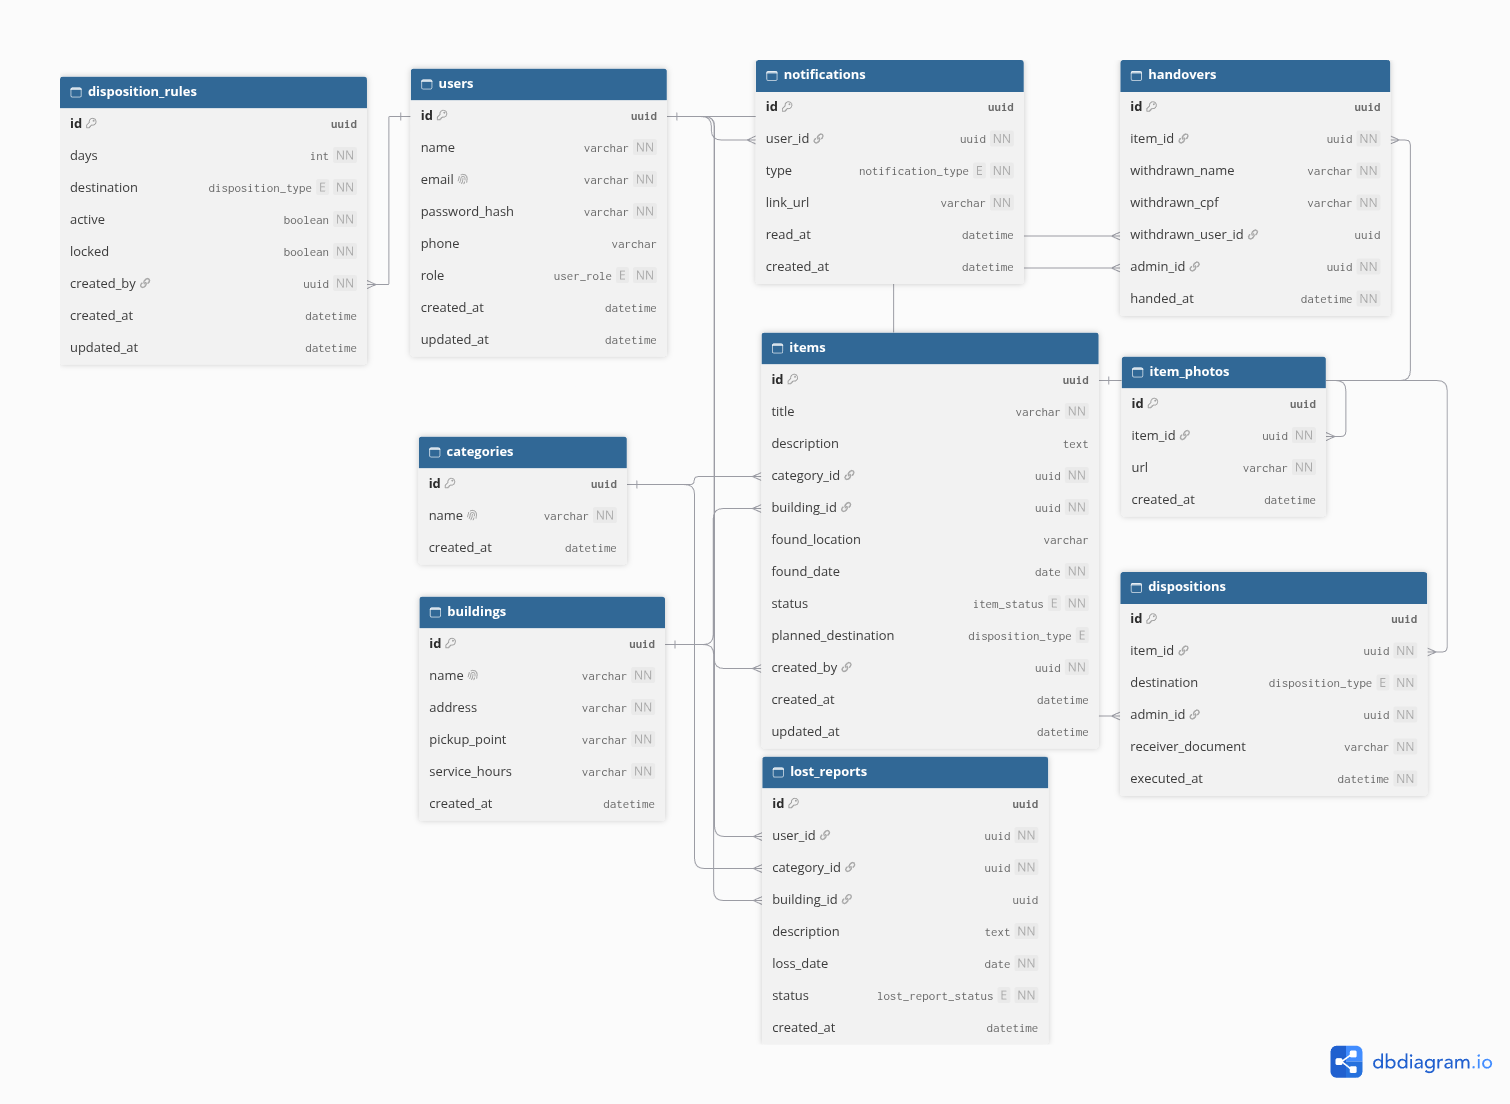
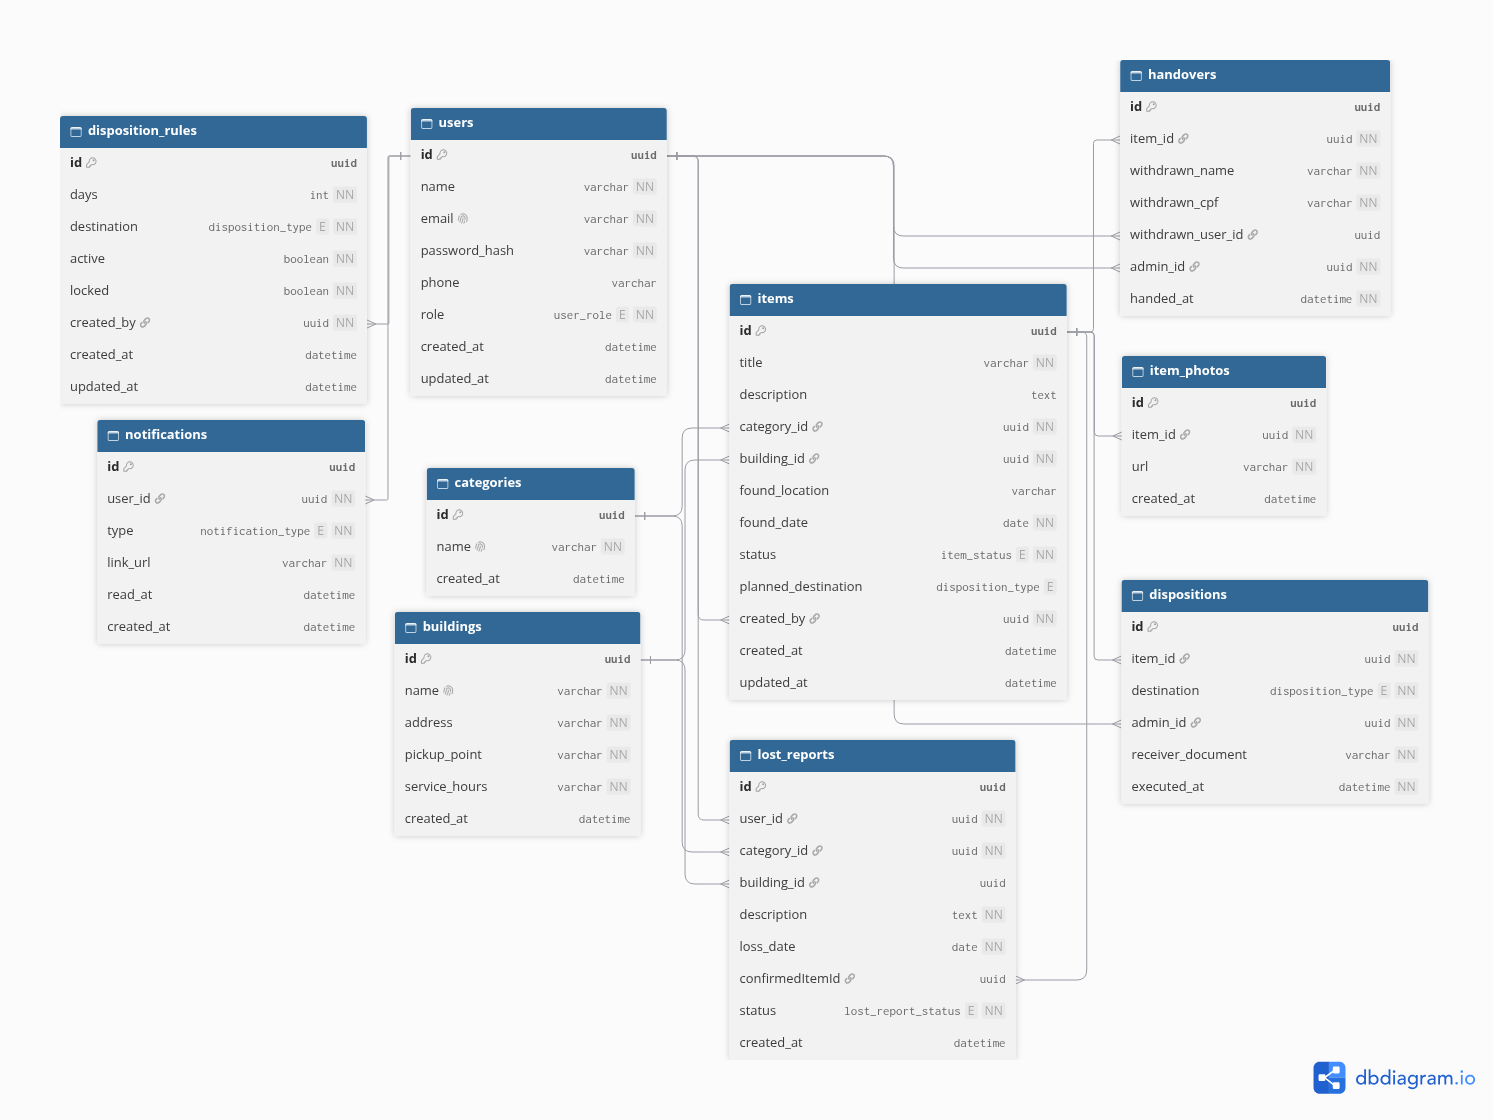
endpoint health e versionamento

diff --git a/backend/src/server.ts b/backend/src/server.ts
@@ -36,10 +36,26 @@ app.use(errorHandler);
 
 // Inicialização do servidor e conexão com o banco de dados
 AppDataSource.initialize()
-  .then(() => app.listen(port, () => {
-    console.log(`Servidor rodando em http://localhost:${port}`);
-    console.log(`Documentação Swagger em http://localhost:${port}/docs`);
-  }))
+  .then(() => {
+    const server = app.listen(port, () => {
+      console.log(`Servidor rodando em http://localhost:${port}`);
+      console.log(`Documentação Swagger em http://localhost:${port}/docs`);
+    });
+
+    const shutdown = async (signal: string) => {
+      console.log(`Recebido sinal ${signal}. Encerrando servidor graciosamente...`);
+      server.close(async () => {
+        if (AppDataSource.isInitialized) {
+          await AppDataSource.destroy();
+          console.log('Conexão com o banco de dados encerrada.');
+        }
+        process.exit(0);
+      });
+    };
+
+    process.on('SIGTERM', () => shutdown('SIGTERM'));
+    process.on('SIGINT', () => shutdown('SIGINT'));
+  })
   .catch((error: unknown) => {
     console.error('Não foi possível conectar ao SQLite:', error);
     process.exitCode = 1;

diff --git a/backend/src/tests/health.test.ts b/backend/src/tests/health.test.ts
@@ -1,0 +1,31 @@
+import assert from 'node:assert/strict';
+import fs from 'node:fs';
+import os from 'node:os';
+import path from 'node:path';
+import { after, before, test } from 'node:test';
+import { startTestApp, type TestApp } from './support/admin-auth-test-app.js';
+
+const tmpDir = fs.mkdtempSync(path.join(os.tmpdir(), 'achadex-health-test-'));
+const dbPath = path.join(tmpDir, 'test.sqlite');
+process.env.SQLITE_DB_PATH = dbPath;
+process.env.JWT_SECRET = 'segredo-de-teste-com-mais-de-32-bytes-para-hs256!';
+
+let app: TestApp;
+
+before(async () => {
+  app = await startTestApp();
+});
+
+after(async () => {
+  await app.close();
+  fs.rmSync(tmpDir, { recursive: true, force: true });
+});
+
+test('HE01 - GET /api/health retorna status healthy e database connected', async () => {
+  const res = await app.request('GET', '/api/health');
+  assert.equal(res.status, 200);
+  assert.equal(res.body.success, true);
+  assert.equal(res.body.data.status, 'healthy');
+  assert.equal(res.body.data.database, 'connected');
+  assert.ok(res.body.data.timestamp);
+});

diff --git a/backend/src/controllers/health.controller.ts b/backend/src/controllers/health.controller.ts
@@ -1,0 +1,24 @@
+import { Router, type Request, type Response } from 'express';
+import { AppDataSource } from '../data-source.js';
+
+export const healthRouter = Router();
+
+healthRouter.get(
+  '/',
+  /* #swagger.tags = ['Health'] */
+  /* #swagger.summary = 'Verificar saúde da aplicação e conexão com o banco de dados' */
+  /* #swagger.responses[200] = { description: 'Serviço saudável', schema: { $ref: '#/definitions/ApiResponse' } } */
+  /* #swagger.responses[503] = { description: 'Serviço degradado ou sem banco', schema: { $ref: '#/definitions/ApiResponse' } } */
+  async (_req: Request, res: Response) => {
+    const dbOk = AppDataSource.isInitialized;
+    const response = {
+      success: dbOk,
+      data: {
+        status: dbOk ? 'healthy' : 'unhealthy',
+        database: dbOk ? 'connected' : 'disconnected',
+        timestamp: new Date().toISOString(),
+      },
+    };
+    res.status(dbOk ? 200 : 503).json(response);
+  },
+);

diff --git a/backend/src/routes/index.ts b/backend/src/routes/index.ts
@@ -8,6 +8,7 @@ import { categoryRouter } from '../controllers/category.controller.js';
 import { dispositionRuleRouter } from '../controllers/disposition-rule.controller.js';
 import { dispositionRouter } from '../controllers/disposition.controller.js';
 import { handoverRouter } from '../controllers/handover.controller.js';
+import { healthRouter } from '../controllers/health.controller.js';
 import { jobRouter } from '../controllers/job.controller.js';
 import { catalogItemRouter } from '../controllers/item.controller.js';
 import { lostReportRouter } from '../controllers/lost-report.controller.js';
@@ -30,3 +31,4 @@ apiRouter.use('/disposition-rules', dispositionRuleRouter);
 apiRouter.use('/dispositions', dispositionRouter);
 apiRouter.use('/jobs', jobRouter);
 apiRouter.use('/admins', adminRouter);
+apiRouter.use('/health', healthRouter);
